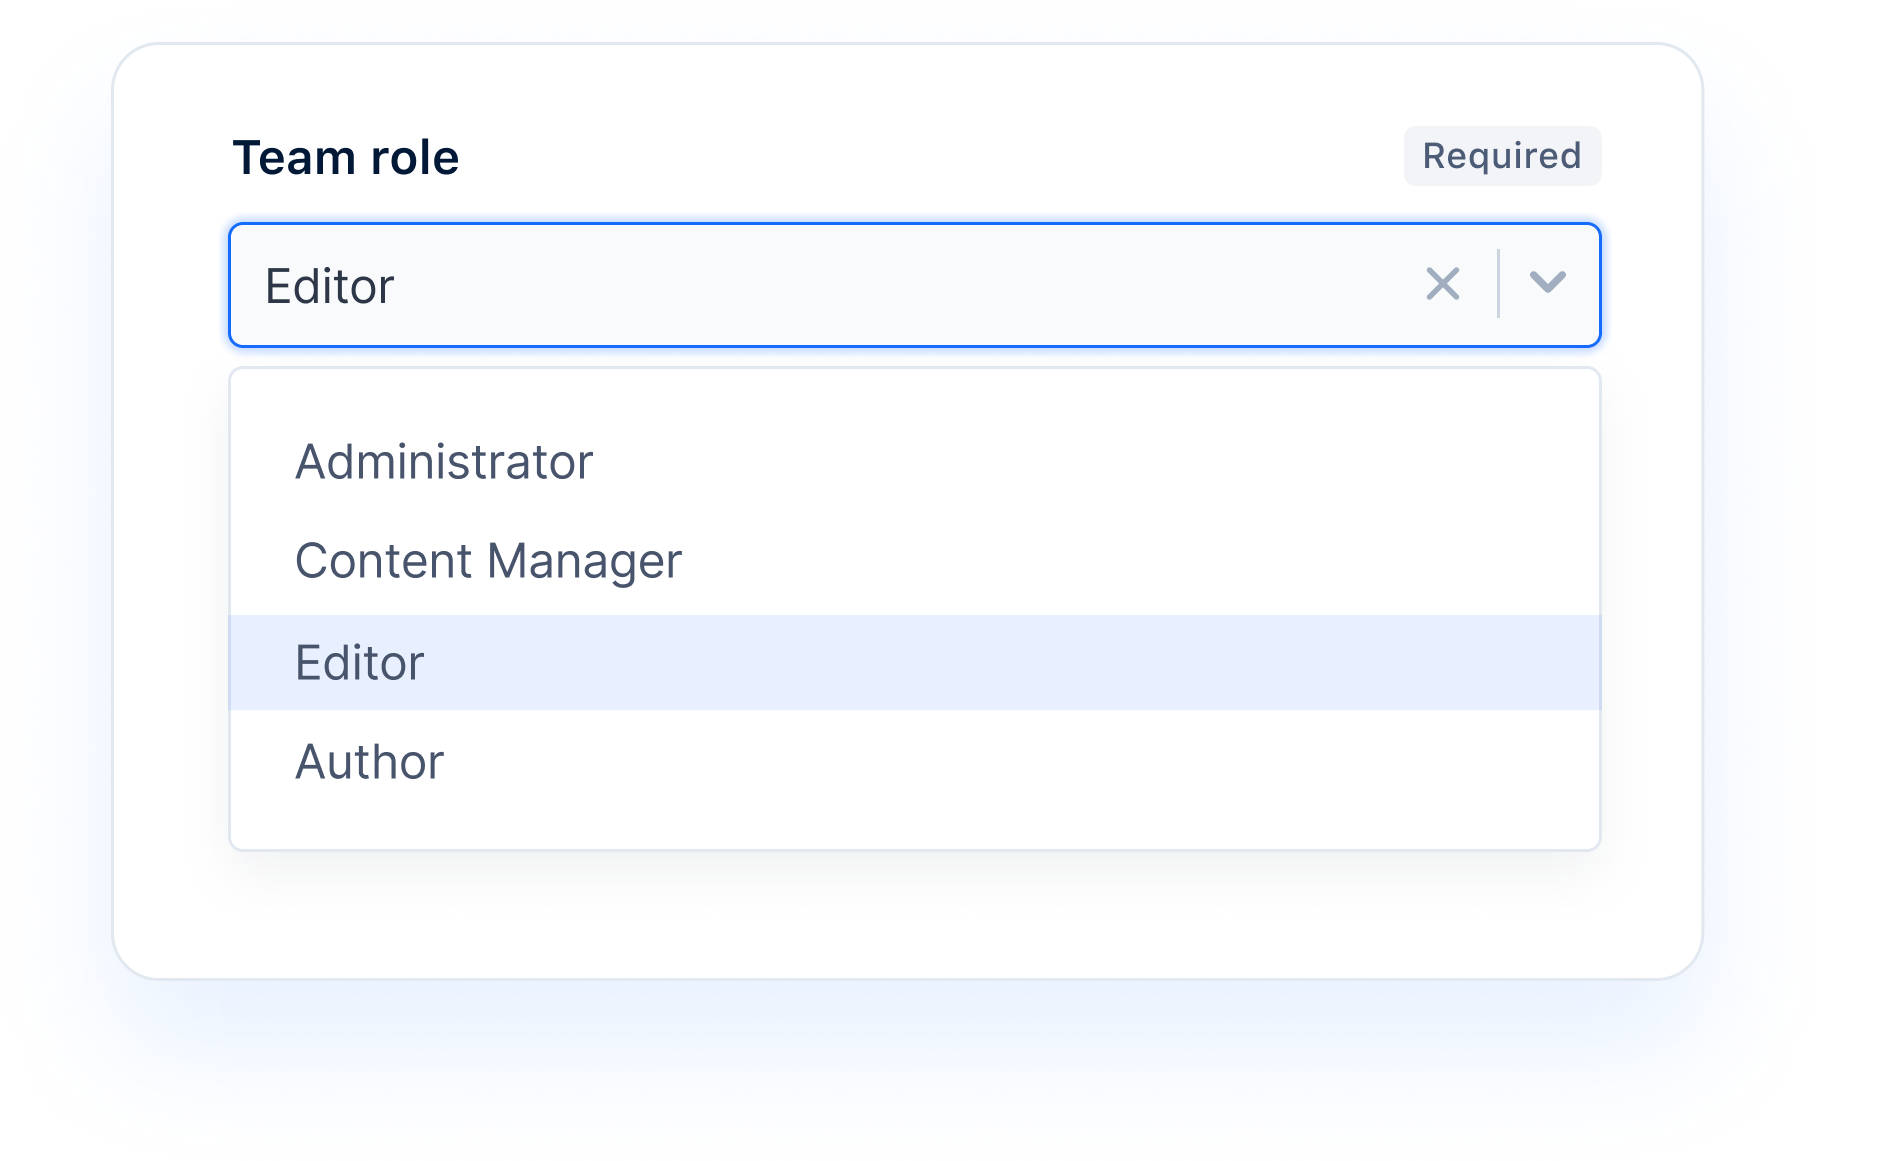
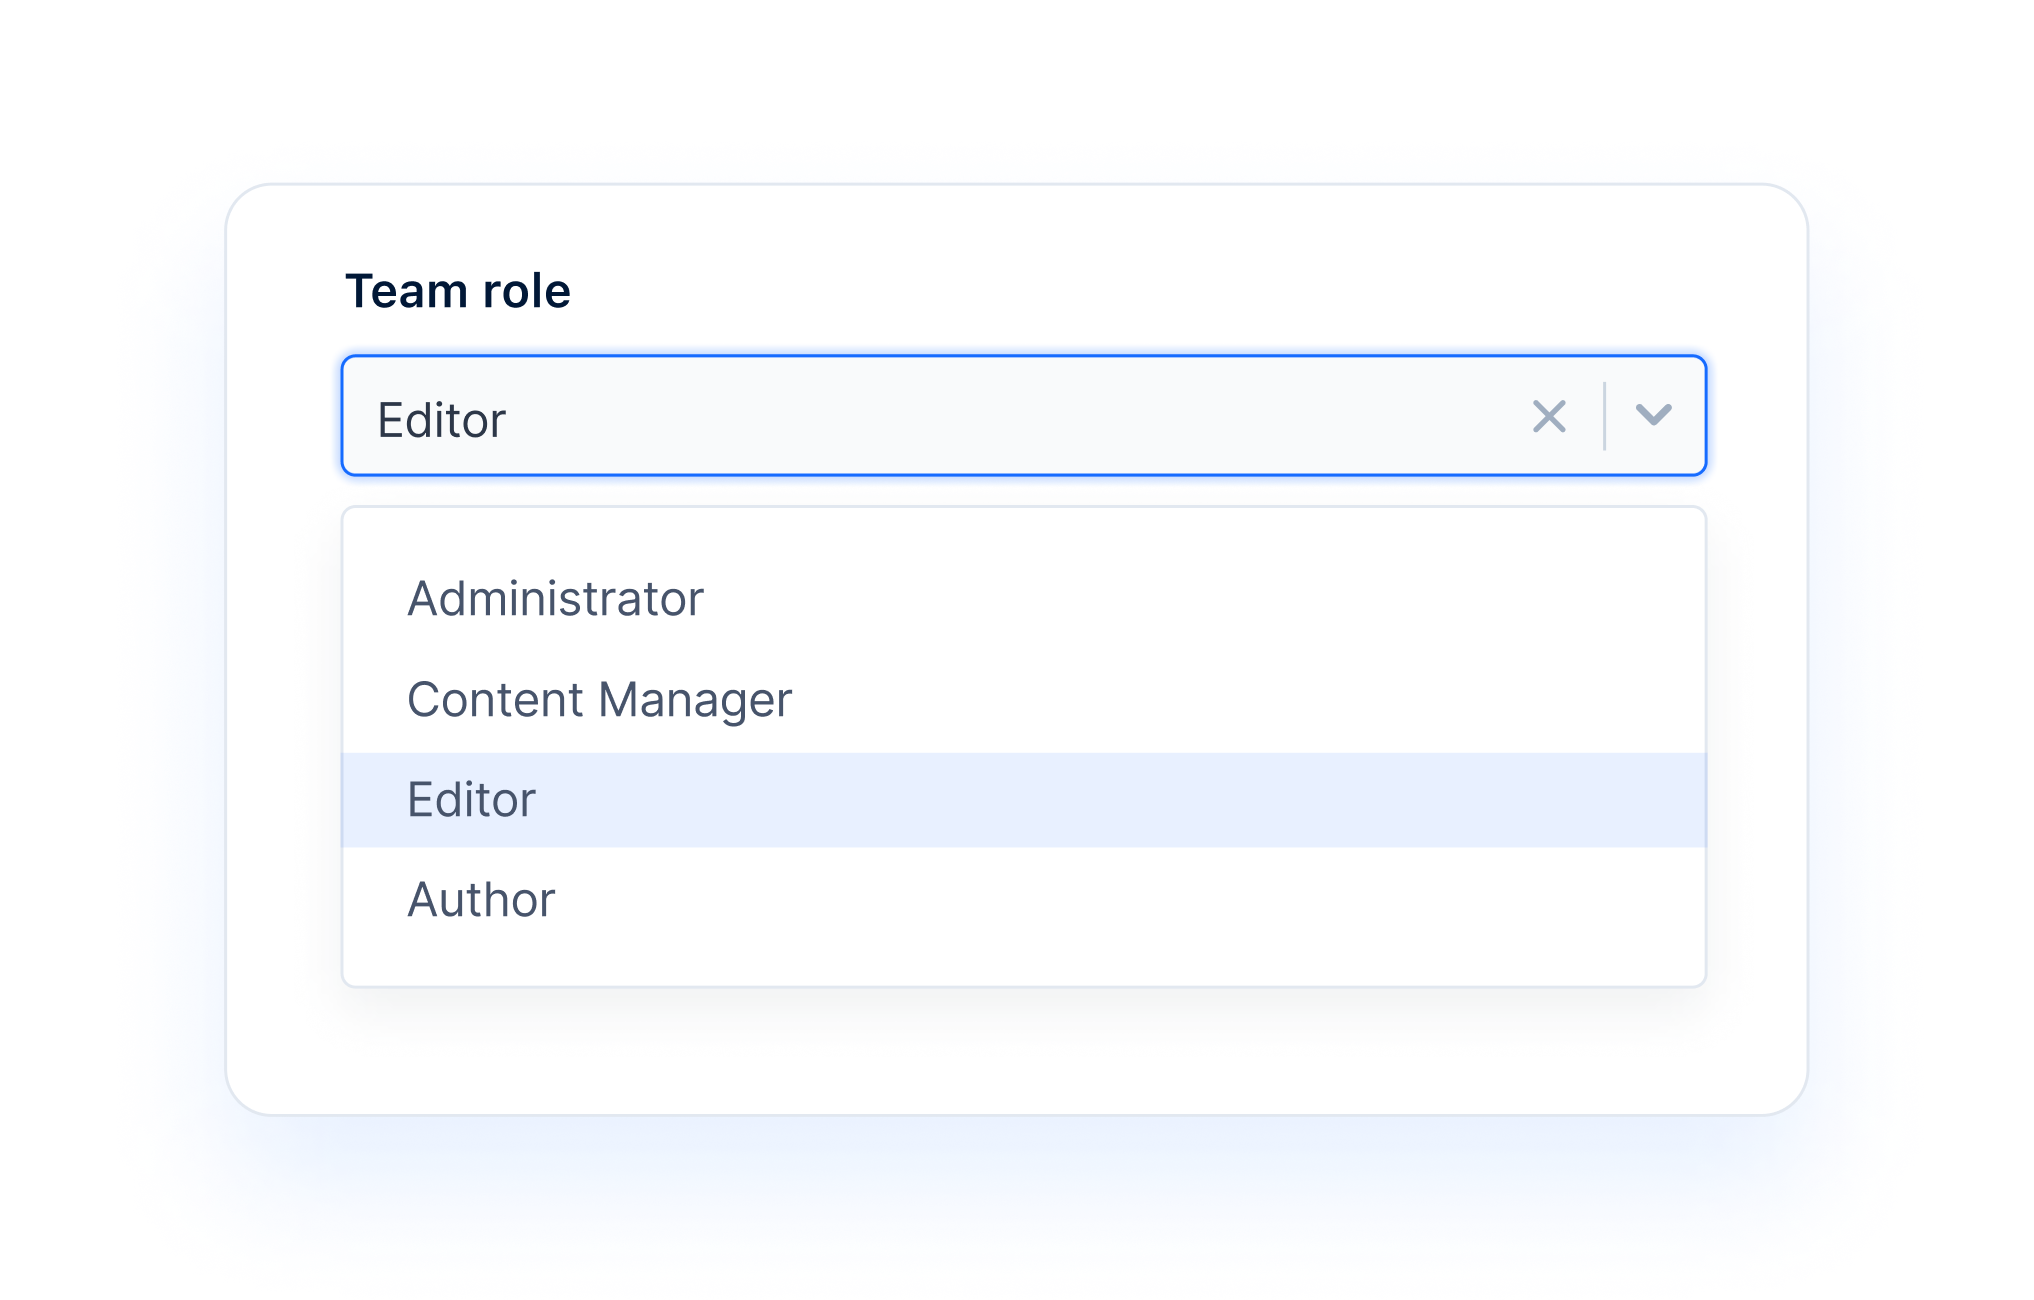
Update Keystone display images on website (#7564)
* updated images

Site images updated based on

https://github.com/keystonejs/keystone-private/issues/83

* revisions

Revised with feedback from Ron

* Image dimensions corrected

Corrected new image dimensions

* updated images

Site images updated based on

https://github.com/keystonejs/keystone-private/issues/83

* Updated content management UI image

* Update data-integrity.png

diff --git a/docs/pages/for-content-management.tsx b/docs/pages/for-content-management.tsx
@@ -108,8 +108,8 @@ export default function ForOrganisations() {
             <Image
               src={contentManagement1}
               alt="Dropdown selector from Keystone’s Admin UI showing different user roles: Administrator, Editor, Content Manager, Author"
-              width={1884}
-              height={1161}
+              width={2034}
+              height={1300}
             />
           </div>
         </SideBySideSection>
@@ -177,8 +177,8 @@ export default function ForOrganisations() {
             <Image
               src={contentManagement2}
               alt="Overlay of Admin UI field panes showing fields for a Post content type. Promotional text overlays show: custom and virtual fields; flexible relationships; powerful sort & filtering."
-              width={1878}
-              height={1561}
+              width={1254}
+              height={1107}
             />
           </div>
         </SideBySideSection>
@@ -343,8 +343,8 @@ export default function ForOrganisations() {
             <Image
               src={contentManagement3}
               alt="2 Admin UI panes showing creation of relationships in place. Author window opens up a Create Post window where Post categories can be selected."
-              width={2006}
-              height={1726}
+              width={2007}
+              height={1727}
             />
           </div>
         </SideBySideSection>

diff --git a/docs/pages/index.tsx b/docs/pages/index.tsx
@@ -490,8 +490,8 @@ export const lists = {
               <Image
                 src={contentEditorMockui}
                 alt="Overlay of Admin UI field panes showing fields for a Post content type. Promotional text overlays show: custom & virtual fields; flexible relationships; powerful sort & filtering."
-                width={2109}
-                height={1591}
+                width={1130}
+                height={997}
               />
             </div>
           </li>
